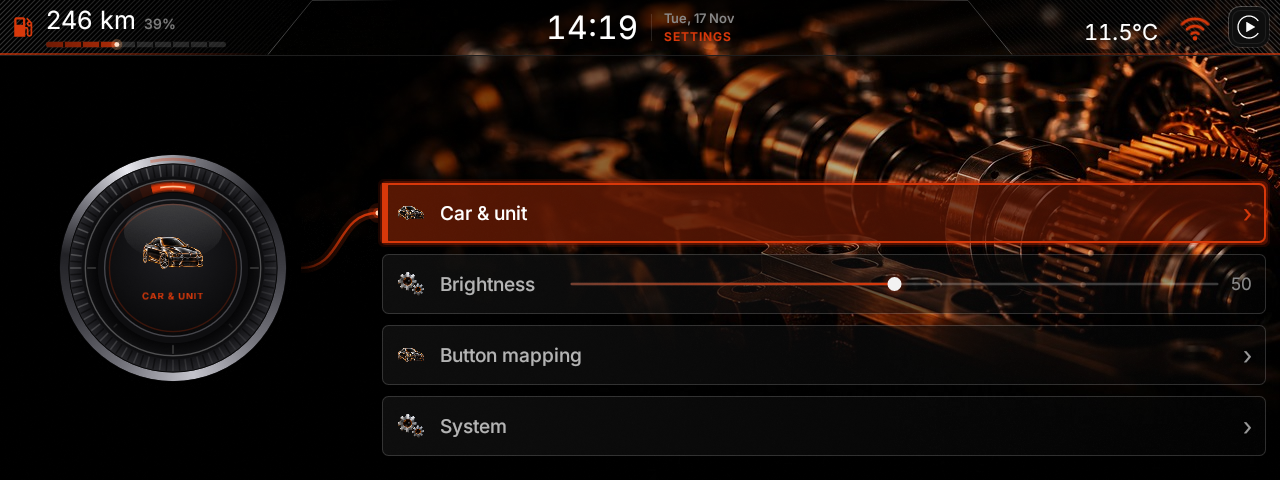
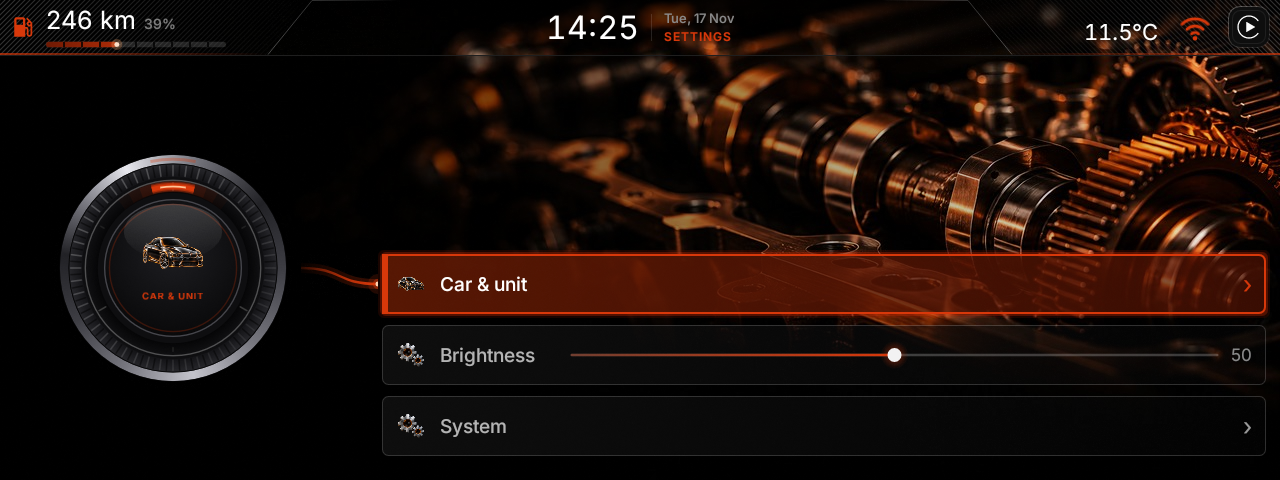
SETUP menu: three rows (Car & unit, Brightness, System); Button mapping moved into System under Assigned apps

Changed region(s): [[0.2188, 0.375, 1.0, 0.6875], [0.3125, 0.7188, 1.0, 0.7812], [0.4688, 0.0312, 0.5, 0.0938]]

diff --git a/app/src/main/java/ro/e92/launcher/ui/screens/SettingsScreen.kt b/app/src/main/java/ro/e92/launcher/ui/screens/SettingsScreen.kt
@@ -58,20 +58,17 @@ class SettingsScreen(
 
     override fun navEntries(): List<NavEntry> = listOf(
         NavEntry(NAV_CAR, context.getString(R.string.set_nav_car)),
-        NavEntry(NAV_BUTTONS, context.getString(R.string.set_nav_buttons)),
         NavEntry(NAV_SYSTEM, context.getString(R.string.set_nav_system))
     )
 
     override fun detailTitle(navId: String): String = when (navId) {
         NAV_CAR -> context.getString(R.string.set_nav_car)
-        NAV_BUTTONS -> context.getString(R.string.set_nav_buttons)
         NAV_LAUNCHER -> context.getString(R.string.set_nav_launcher)
         else -> context.getString(R.string.set_nav_system)
     }.uppercase()
 
     override fun detailHint(navId: String): String = when (navId) {
         NAV_CAR -> context.getString(R.string.set_car_hint)
-        NAV_BUTTONS -> context.getString(R.string.set_keymap_hint)
         NAV_SYSTEM, NAV_APPS -> context.getString(R.string.set_assigned_hint)
         else -> ""
     }
@@ -82,13 +79,14 @@ class SettingsScreen(
         NAV_CAR -> carUnitRows() +
             DetailRow(id = "hdr_launcher", title = context.getString(R.string.set_nav_launcher), header = true) +
             launcherRows()
-        NAV_BUTTONS -> keymapRows()
         NAV_LAUNCHER -> launcherRows()
-        // System cuprinde și Assigned apps (2026-11-17): meniul SETUP are loc de Brightness.
-        // NAV_APPS, din rândurile „Settings" ale altor meniuri, deschide tot aici.
+        // System cuprinde și Assigned apps și Button mapping (2026-11-17): SETUP are trei rânduri,
+        // cu Brightness la mijloc. NAV_APPS și NAV_BUTTONS deschid tot aici.
         else -> systemRows() +
             DetailRow(id = "hdr_assigned", title = context.getString(R.string.set_nav_assigned), header = true) +
-            assignedAppRows()
+            assignedAppRows() +
+            DetailRow(id = "hdr_buttons", title = context.getString(R.string.set_nav_buttons), header = true) +
+            keymapRows()
     }
 
     // ----------------------------------------------------------- car & unit

diff --git a/app/src/main/java/ro/e92/launcher/ui/screens/TileMenus.kt b/app/src/main/java/ro/e92/launcher/ui/screens/TileMenus.kt
@@ -508,12 +508,7 @@ class SettingsMenuScreen(host: ScreenHost) : WheelMenuScreen(host) {
             slider = brightness,
             onActivate = { brightness.adjusting = !brightness.adjusting }
         ),
-        WheelEntry(
-            id = "set_buttons",
-            icon = R.drawable.ic_menu_car_info,
-            title = context.getString(R.string.set_nav_buttons),
-            onActivate = { host.push(SettingsScreen(host, SettingsScreen.NAV_BUTTONS)) }
-        ),
+        // Button mapping a trecut și el în System, sub Assigned apps (2026-11-17).
         WheelEntry(
             id = "set_system",
             icon = R.drawable.ic_menu_settings,
